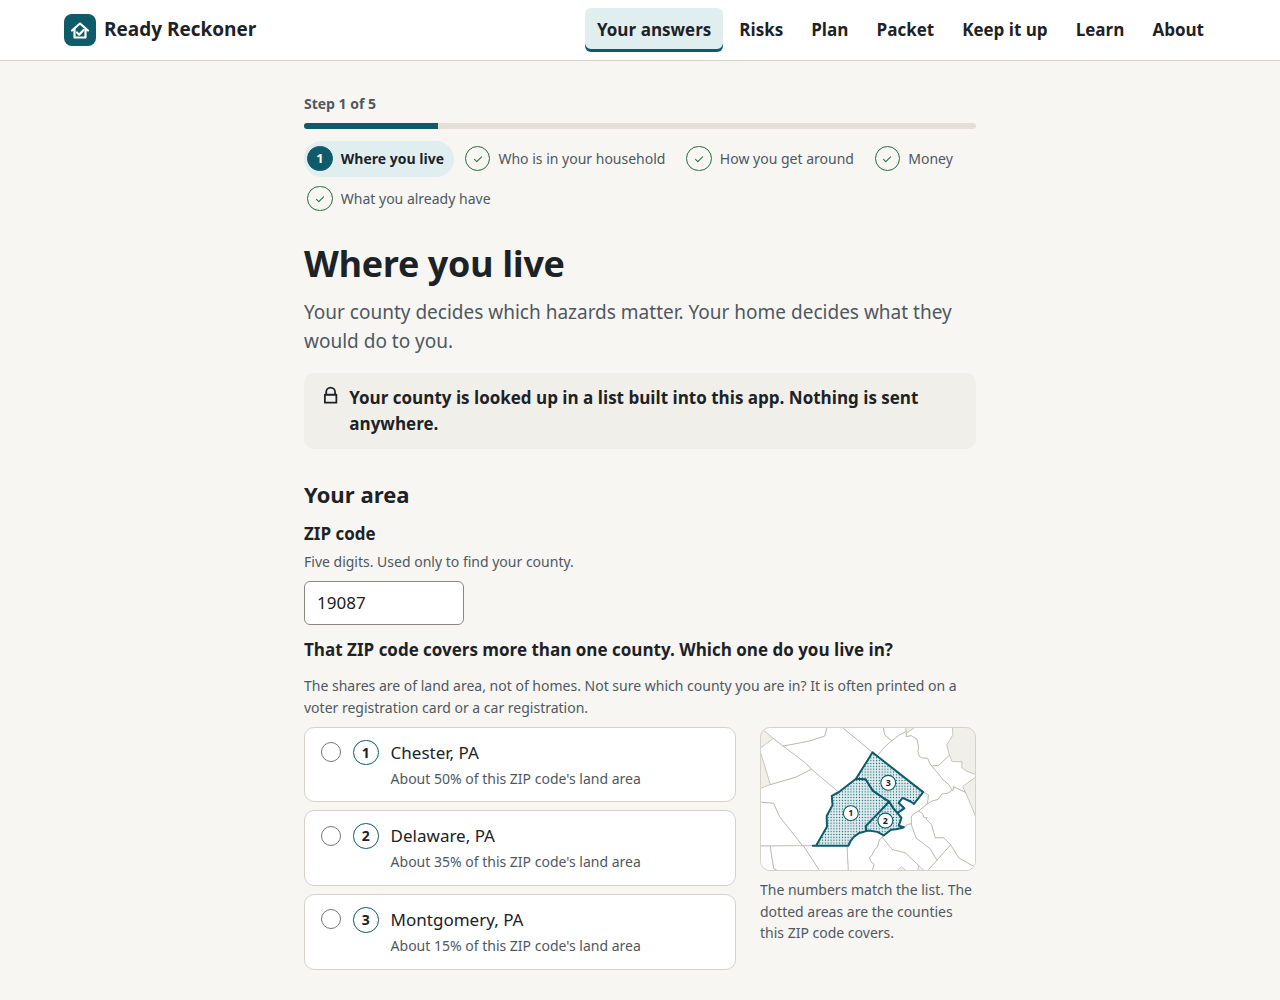
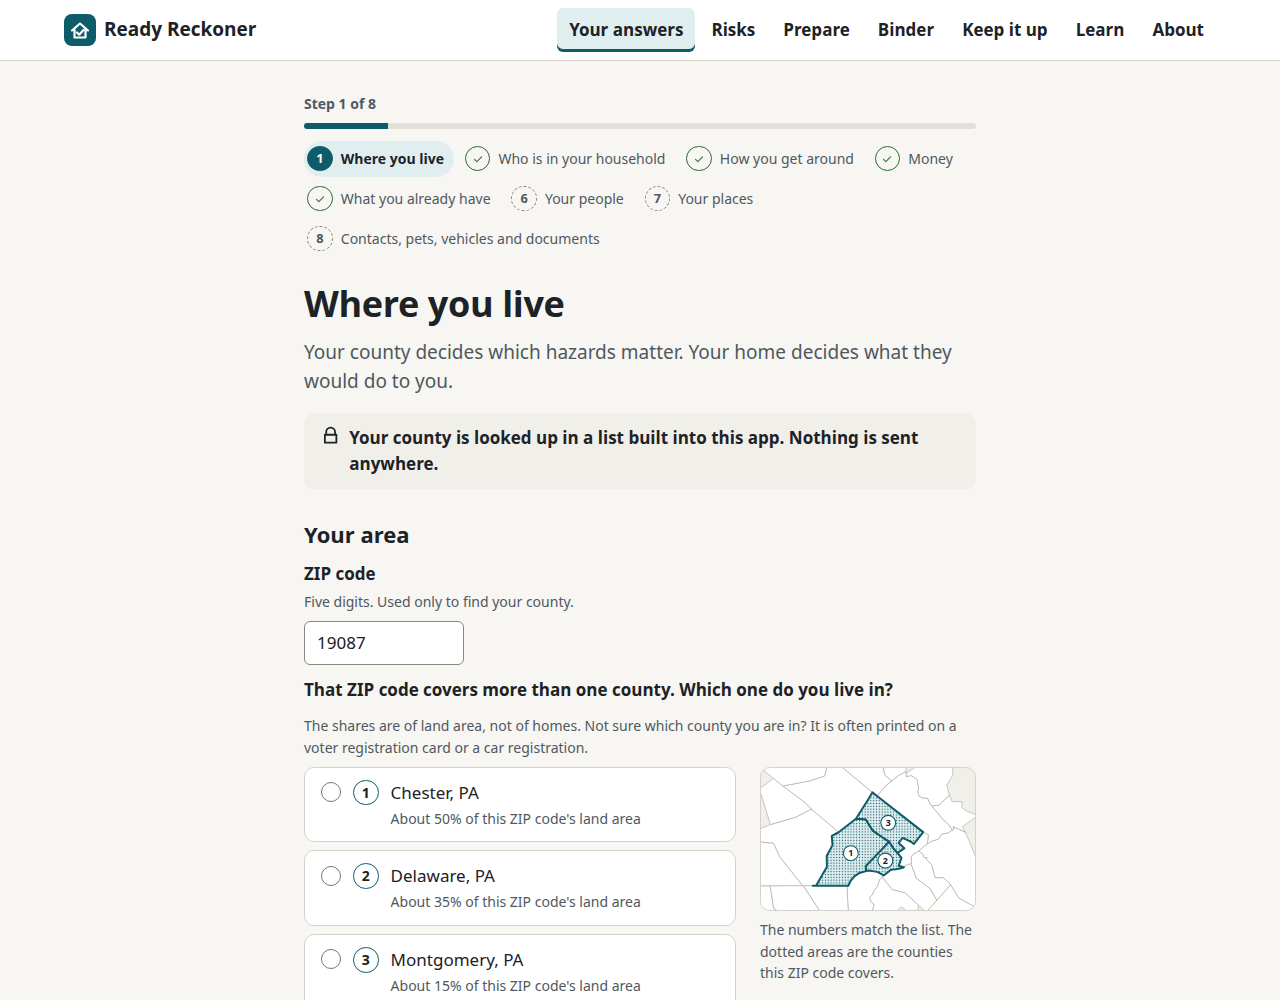
docs(readme): refresh the five hero screenshots for v0.3.0
Captured with web/scripts/screenshots.mjs (the same five shots the
v0.2.0 README used: an ambiguous ZIP code, the risks matrix, the
Plan screen, the Packet screen, and About) after the version bump,
so the footer and About table read 0.3.0 / content 2026.10.01. The
Plan and Packet shots are renamed 03-prepare.png and 04-your-binder.png
to match the renamed tabs, and README.md's table and captions follow.
Each was axe-clean in the capture run. Cropped to the same
above-the-fold heights as the originals (the script's shots are
full-page).

diff --git a/README.md b/README.md
@@ -81,8 +81,8 @@ A 60-second walkthrough:
 | --- | --- |
 | ![Where you live: a ZIP code that covers three counties, with a map to help pick the right one](docs/screenshots/01-where-you-live.png) | ![Your risks: hazards ranked by how likely and how serious they are for this household and county](docs/screenshots/02-your-risks.png) |
 | *Where you live: an ambiguous ZIP code, resolved with a map.* | *Your risks: ranked, with a source behind every number.* |
-| ![Your plan: this month's free steps, progress so far, and when every target will be covered](docs/screenshots/03-your-plan.png) | ![Your packet: a printable summary with the household, the risks and the free steps to start with](docs/screenshots/04-your-packet.png) |
-| *Your plan: free steps first, month by month.* | *Your packet: ready to print and keep in a drawer.* |
+| ![Prepare: this month's free steps, progress so far, and when every target will be covered](docs/screenshots/03-prepare.png) | ![Your binder: a ten-tab, during-event reference with a page per person and place and a checklist for every risk](docs/screenshots/04-your-binder.png) |
+| *Prepare: free steps first, month by month.* | *Your binder: ten tabs, ready to print and keep within reach.* |
 
 ![About and method: which versions are running, and how much data is on this device and why](docs/screenshots/05-about-and-sources.png)
 *About and method: every version, and exactly what data is on your device.*
